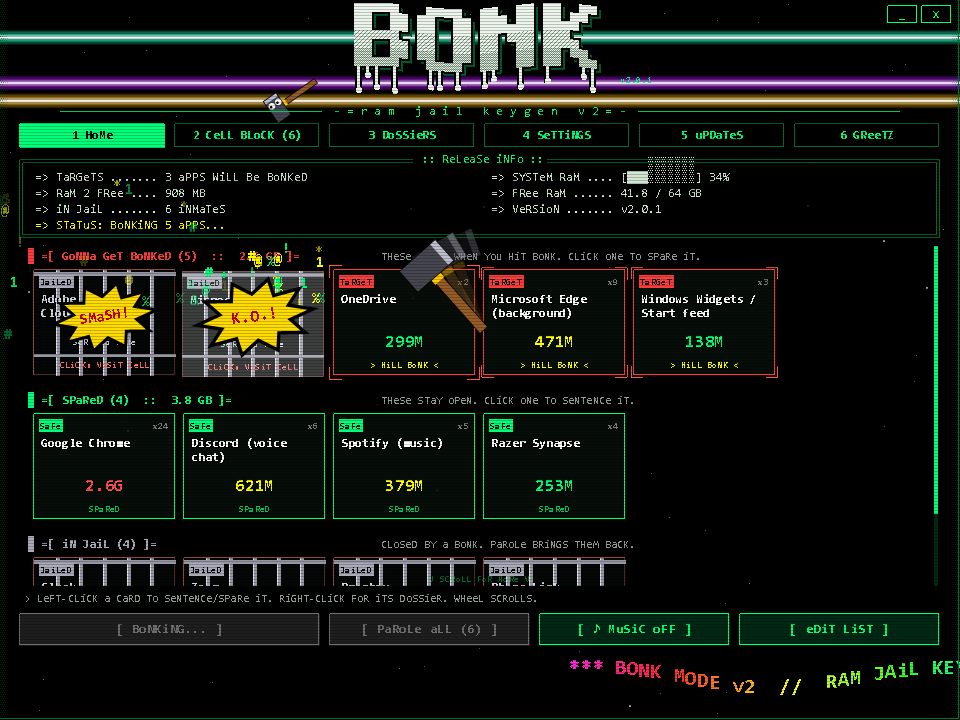
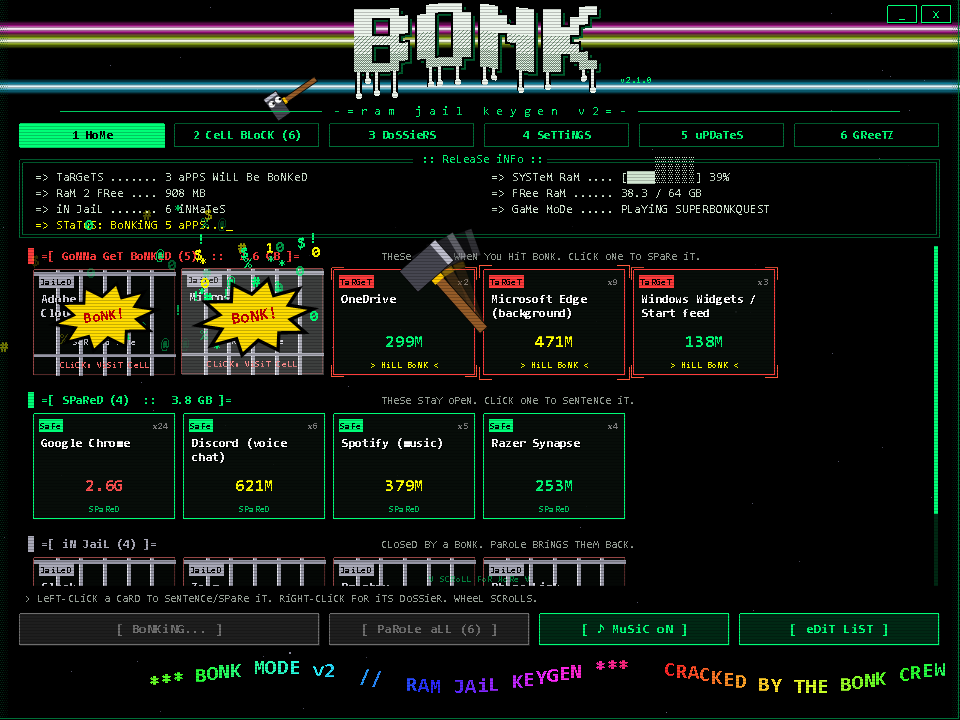
v2.1.0: Auto Game Mode
Bonk automatically when a game starts and parole when it quits.

- Game detection from all Steam libraries (libraryfolders.vdf), Epic, Xbox,
  EA, Ubisoft, GOG, and a user games block in bonk-list.json.
- Ask mode: 5 second countdown, cancel from notification or window.
- Running game PIDs are excluded from every bonk.
- Busy guard so timers never start a second bonk mid-bonk.
- Settings screen scrolls; -GameScan and -UpdateNow switches.
- Fix: single-item pipeline results broke parole relaunch and single-app
  parole (PS 5.1 .Count quirk).
- Verified end to end in an isolated copy: fake game detected, dummy hog
  bonked, game untouched, hog paroled after quit.

diff --git a/bonk-ui.cs b/bonk-ui.cs
@@ -392,6 +392,7 @@ namespace BonkMode
         public event Action<string> BonkOneClicked;
         public event Action<string> ParoleOneClicked;
         public event Action<string, string> SettingChanged;
+        public event Action GameCancelClicked;
 
         public static bool NoAudio;
 
@@ -430,6 +431,7 @@ namespace BonkMode
             new[] { "scanlines", "bool", "CRT scanlines", "For that 1999 monitor glow." },
             new[] { "hammer", "cycle:fast,normal,dramatic", "Hammer speed", "How long each swing takes. Dramatic is very dramatic." },
             new[] { "polite", "cycle:2,4,8", "Polite warning", "Seconds apps get to close nicely before the hammer falls." },
+            new[] { "gameMode", "cycle:off,ask,auto", "Auto game mode", "Bonk when a game starts, parole when it quits. Ask = 5 second countdown you can cancel." },
             new[] { "autostart", "bool", "Start with Windows", "Put the hammer in the tray at login." },
             new[] { "autoUpdate", "bool", "Check for updates", "Look for a new release on GitHub when this opens and every 6h." }
         };
@@ -483,6 +485,8 @@ namespace BonkMode
         DateTime lastCheck = DateTime.MinValue;
         int updPct = -1;
         string updMsg = "";
+        string gameStatus = "aSK :: WaTCHiNG";
+        int settingsScroll;
 
         public KeygenForm()
         {
@@ -562,6 +566,15 @@ namespace BonkMode
         }
 
         public void SetUpdateProgress(int pct, string msg) { updPct = pct; updMsg = Leet(msg ?? ""); }
+
+        public void SetGameStatus(string s) { gameStatus = s ?? ""; }
+
+        public void ShowGameBanner(string game)
+        {
+            bannerText = "GaMe oN!"; bannerSub = Leet(game + " detected. clearing the room."); bannerT = 0;
+            if (shakeOn) shake = 0.6f;
+            Play(sfxFanfare);
+        }
 
         public void ShowScreen(int s) { screen = Math.Max(0, Math.Min(5, s)); transT = 0; }
 
@@ -1013,6 +1026,7 @@ namespace BonkMode
             else if (screen == 1) jailScroll += d;
             else if (screen == 2 && e.X < 480) appsScroll += d / 2;
             else if (screen == 4) logScroll += d / 2;
+            else if (screen == 3) settingsScroll += d;
         }
 
         protected override void OnKeyDown(KeyEventArgs e)
@@ -1066,6 +1080,7 @@ namespace BonkMode
                 }
                 return;
             }
+            if (id == "gamecancel") { Play(sfxClick); if (GameCancelClicked != null) GameCancelClicked(); return; }
             if (id == "upd:check") { StartUpdateCheck(true); return; }
             if (id == "upd:install")
             {
@@ -1131,7 +1146,8 @@ namespace BonkMode
             return p;
         }
 
-        void Zone(RectangleF r, string id) { zonesNext.Add(new Hit(r, id)); }
+        bool zonesOff;
+        void Zone(RectangleF r, string id) { if (!zonesOff) zonesNext.Add(new Hit(r, id)); }
         bool Hot(string id) { return hoverId == id; }
 
         protected override void OnPaint(PaintEventArgs e)
@@ -1346,7 +1362,7 @@ namespace BonkMode
             string[] right = {
                 Dots("SYSTeM RaM", RamBar() + " " + ramLoad + "%"),
                 Dots("FRee RaM", ramFreeGB.ToString("0.0", Inv) + " / " + ramTotalGB.ToString("0", Inv) + " GB"),
-                Dots("VeRSioN", "v" + localVersion + (updAvailable ? "  >> v" + remoteVersion + " ouT!" : ""))
+                Dots("GaMe MoDe", gameStatus)
             };
             int budget = (int)((openT - 0.15) * 170);
             for (int i = 0; i < 3; i++)
@@ -1356,6 +1372,8 @@ namespace BonkMode
             }
             string cursor = ((int)(t * 3) % 2 == 0) ? "_" : " ";
             TypeLine(g, "=> STaTuS: " + status + cursor, Color.Yellow, 34, box.Y + 58, budget);
+            if (gameStatus.StartsWith("BoNKiNG iN"))
+                Button(g, new RectangleF(box.Right - 120, box.Y + 39, 104, 18), "CaNCeL", "gamecancel", Color.FromArgb(120, 0, 0), Color.Yellow, true);
 
             Rectangle area = new Rectangle(20, GridTop, W - 40, GridBottom - GridTop);
             int maxScroll = Math.Max(0, (int)homeContentH - area.Height);
@@ -1792,11 +1810,17 @@ namespace BonkMode
         {
             Rectangle box = new Rectangle(20, 162, W - 40, 448);
             Box(g, box, "SeTTiNGS");
+            int top = box.Y + 10, bottom = box.Bottom - 8;
+            float contentH = SettingRows.Length * 47;
+            settingsScroll = Clamp(settingsScroll, 0, Math.Max(0, (int)contentH - (bottom - top)));
+            g.SetClip(new Rectangle(box.X + 4, top, box.Width - 8, bottom - top));
             for (int i = 0; i < SettingRows.Length; i++)
             {
                 string[] row = SettingRows[i];
                 string key = row[0], kind = row[1];
-                float y = box.Y + 14 + i * 47;
+                float y = box.Y + 14 + i * 47 - settingsScroll;
+                if (y + 44 < top || y - 4 > bottom) continue;
+                zonesOff = y - 4 < top || y + 40 > bottom;   // half-visible rows are not clickable
                 if (i % 2 == 0) g.FillRectangle(B(Color.FromArgb(14, 0, 255, 120)), box.X + 8, y - 4, box.Width - 16, 44);
                 g.DrawString(Leet(row[2]), fBtn, B(Color.White), box.X + 22, y);
                 g.DrawString(Leet(row[3]), fSmall, B(Color.FromArgb(150, 165, 150)), box.X + 22, y + 19);
@@ -1833,6 +1857,9 @@ namespace BonkMode
                     Button(g, new RectangleF(cx + 234, y + 2, 36, 28), ">", "set:" + key + ":next", Color.Black, Green, true);
                 }
             }
+            zonesOff = false;
+            g.ResetClip();
+            Scrollbar(g, box.Right - 8, top, bottom, contentH, settingsScroll);
             g.DrawString(Leet("every change saves instantly. nothing in here can bonk steam."), fSmall, B(Color.Gray), new RectangleF(20, BtnY + 8, W - 40, 16), sfCenter);
         }
 

diff --git a/README.md b/README.md
@@ -58,6 +58,14 @@ Then the banner tells you how much you freed. Very satisfying. Scientifically pr
 
 <sub>*not scientifically proven</sub>
 
+### AUTO GAME MODE: it bonks for you
+
+![Game mode](screenshots/gamemode.png)
+
+Start a game and Bonk Mode notices: **GAME ON!** It counts down five seconds (click the notification or **CANCEL** if you want everything left open), then clears the room. Quit the game, and ten seconds later everything it bonked comes back on parole. You never have to remember.
+
+It watches every Steam library on your PC (read straight from Steam), plus Epic, Xbox, EA, Ubisoft and GOG folders. Got a game somewhere else? Add its folder or exe name to the `games` block in your `bonk-list.json`. The game you're playing is never bonked, even if it's on your list. Set it to **off**, **ask** (default) or **auto** in Settings or the tray menu.
+
 ### 2 · CELL BLOCK: visit the inmates
 
 ![Cell block](screenshots/cellblock.png)
@@ -143,6 +151,7 @@ Everything is inside the app on screen **4**, and every change saves instantly.
 | CRT scanlines | For that 1999 monitor glow. |
 | Hammer speed | Fast, normal, or **dramatic**. Dramatic is very dramatic. |
 | Polite warning | 2, 4 or 8 seconds for apps to close nicely before the hammer. |
+| Auto game mode | **Off**, **ask** (5 second countdown you can cancel) or **auto**. |
 | Start with Windows | Hammer in the tray at login. |
 | Check for updates | Looks for a new release on GitHub on open and every 6 hours. |
 
@@ -198,11 +207,17 @@ None of these close anything:
 .\bonk-mode.ps1 -ListOnly          # table of your list, what's running, RAM per app
 .\bonk-mode.ps1 -SelfTest          # builds the tray menu and prints what parole would reopen
 .\bonk-mode.ps1 -Preview .\shots   # renders every keygen screen to PNG (uses demo apps)
+.\bonk-mode.ps1 -GameScan          # which game folders are watched, and is a game running now
 ```
 
 ---
 
 ## 📜 Version history
+
+### v2.1.0 · Auto Game Mode
+- Bonks automatically when a game starts (5 second countdown you can cancel, or fully auto) and paroles when it quits.
+- Watches all Steam libraries plus Epic, Xbox, EA, Ubisoft, GOG and your own folders. Never bonks the game itself.
+- Fixed: parole now reopens apps with a single relaunch command.
 
 ### v2.0.1 · Credit Where Credit Is Due
 - Relicensed to **Apache 2.0 + NOTICE**: forks and derivatives must credit the original.

diff --git a/ROADMAP.md b/ROADMAP.md
@@ -12,11 +12,9 @@ This is the plan, not a promise. Order may change. Ideas welcome in [Issues](htt
 | v1.1.0 | The Keygen | 1999 keygen window, chiptune, hammer animation |
 | v2.0.0 | The Cell Block Update | Six screens, inmates, dossiers, settings, live updater |
 | v2.0.1 | Credit Where Credit Is Due | Apache 2.0 + NOTICE |
+| v2.1.0 | Auto Game Mode | Bonks when a game starts, paroles when it quits |
 
 ## 🔜 Next up
-
-### v2.1.0 · Auto Game Mode
-Start a game and Bonk Mode notices, counts down "bonking in 3...", and clears the room. Quit the game and everyone gets paroled automatically. You'll never have to remember again.
 
 ### v2.2.0 · Hog Radar
 A new app starts eating gigabytes? **NEW SUSPECT DETECTED.** One click adds it to your list, or spares it forever. The list maintains itself.
@@ -30,10 +28,8 @@ Gaming, Streaming (keeps Discord and OBS), Work and Battery profiles. CPU and di
 ### v2.5.0 · Hotkeys, Stream Deck and stats
 `Ctrl+Alt+B` to bonk from inside a game. Command-line switches for Stream Deck buttons. Lifetime stats, achievements, and a hall of shame for repeat offenders.
 
-### v3.0.0 · Signed and verified
-Digitally signed releases, and an updater that refuses anything not signed by us.
-
 ## 💭 Someday maybe
+- Digitally signed releases with a signature-checking updater
 - A community "known hogs" list
 - Bonk on idle or on a schedule
 - Spanish translation

diff --git a/CHANGELOG.md b/CHANGELOG.md
@@ -1,5 +1,15 @@
 # Bonk Mode changelog
 
+## v2.1.0 - Auto Game Mode
+- Start a game and Bonk Mode notices. It counts down 5 seconds (click the notification or CANCEL to stop it), then bonks your list. Quit the game and everything it bonked gets paroled 10 seconds later.
+- Watches Steam libraries (all of them, read from Steam's own library list), Epic, Xbox, EA, Ubisoft and GOG folders, plus any folders or exe names you add to the new games block in bonk-list.json.
+- The game you're playing is never bonked, even if it is on your list.
+- Auto game mode setting: off, ask (default) or auto. Also in the tray menu.
+- GAME ON! banner and a live game-mode line in the release info box.
+- Settings screen scrolls now. More settings are coming.
+- New: -GameScan shows the watched folders and any game running now. -UpdateNow installs the latest release from the command line.
+- Fixed: parole now reopens apps that have a single relaunch command, and single-app parole works again.
+
 ## v2.0.1 - Credit Where Credit Is Due
 - Relicensed from MIT to Apache License 2.0 with a NOTICE file. Forks and derivatives must keep the attribution: "Based on Bonk Mode by makesupply".
 - License headers in the source files, and credit on the Greetz screen and in the scroller.
